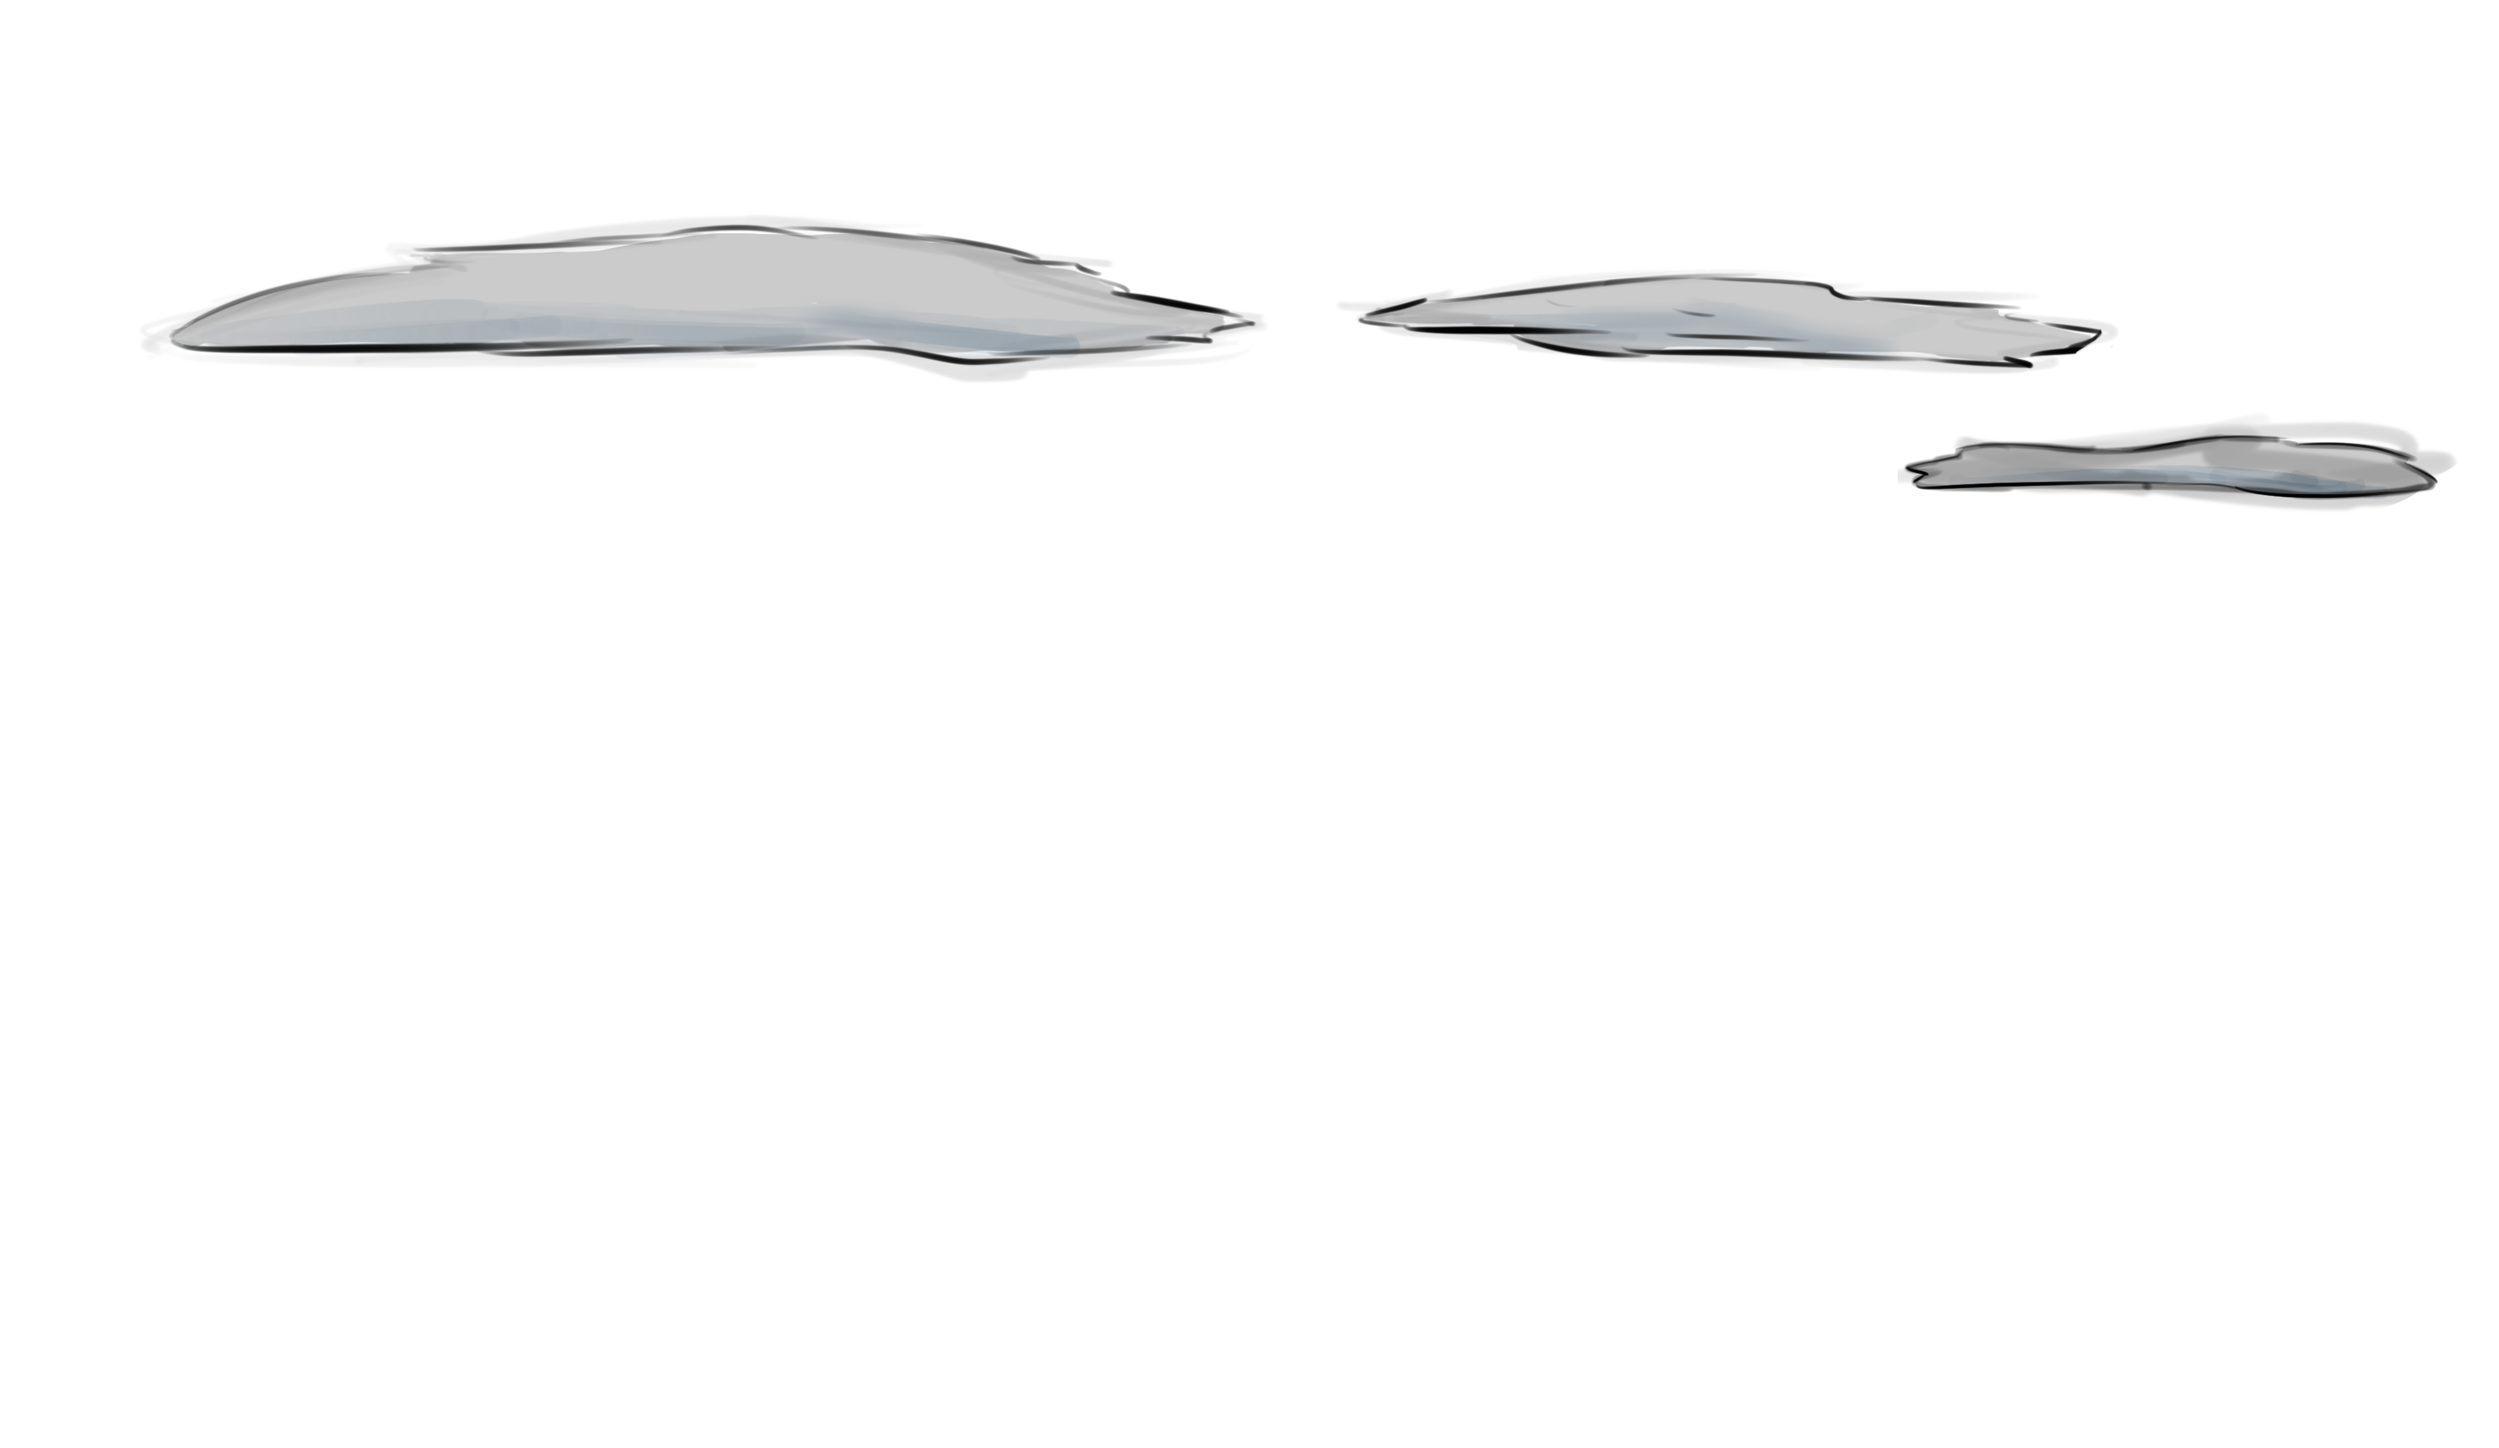
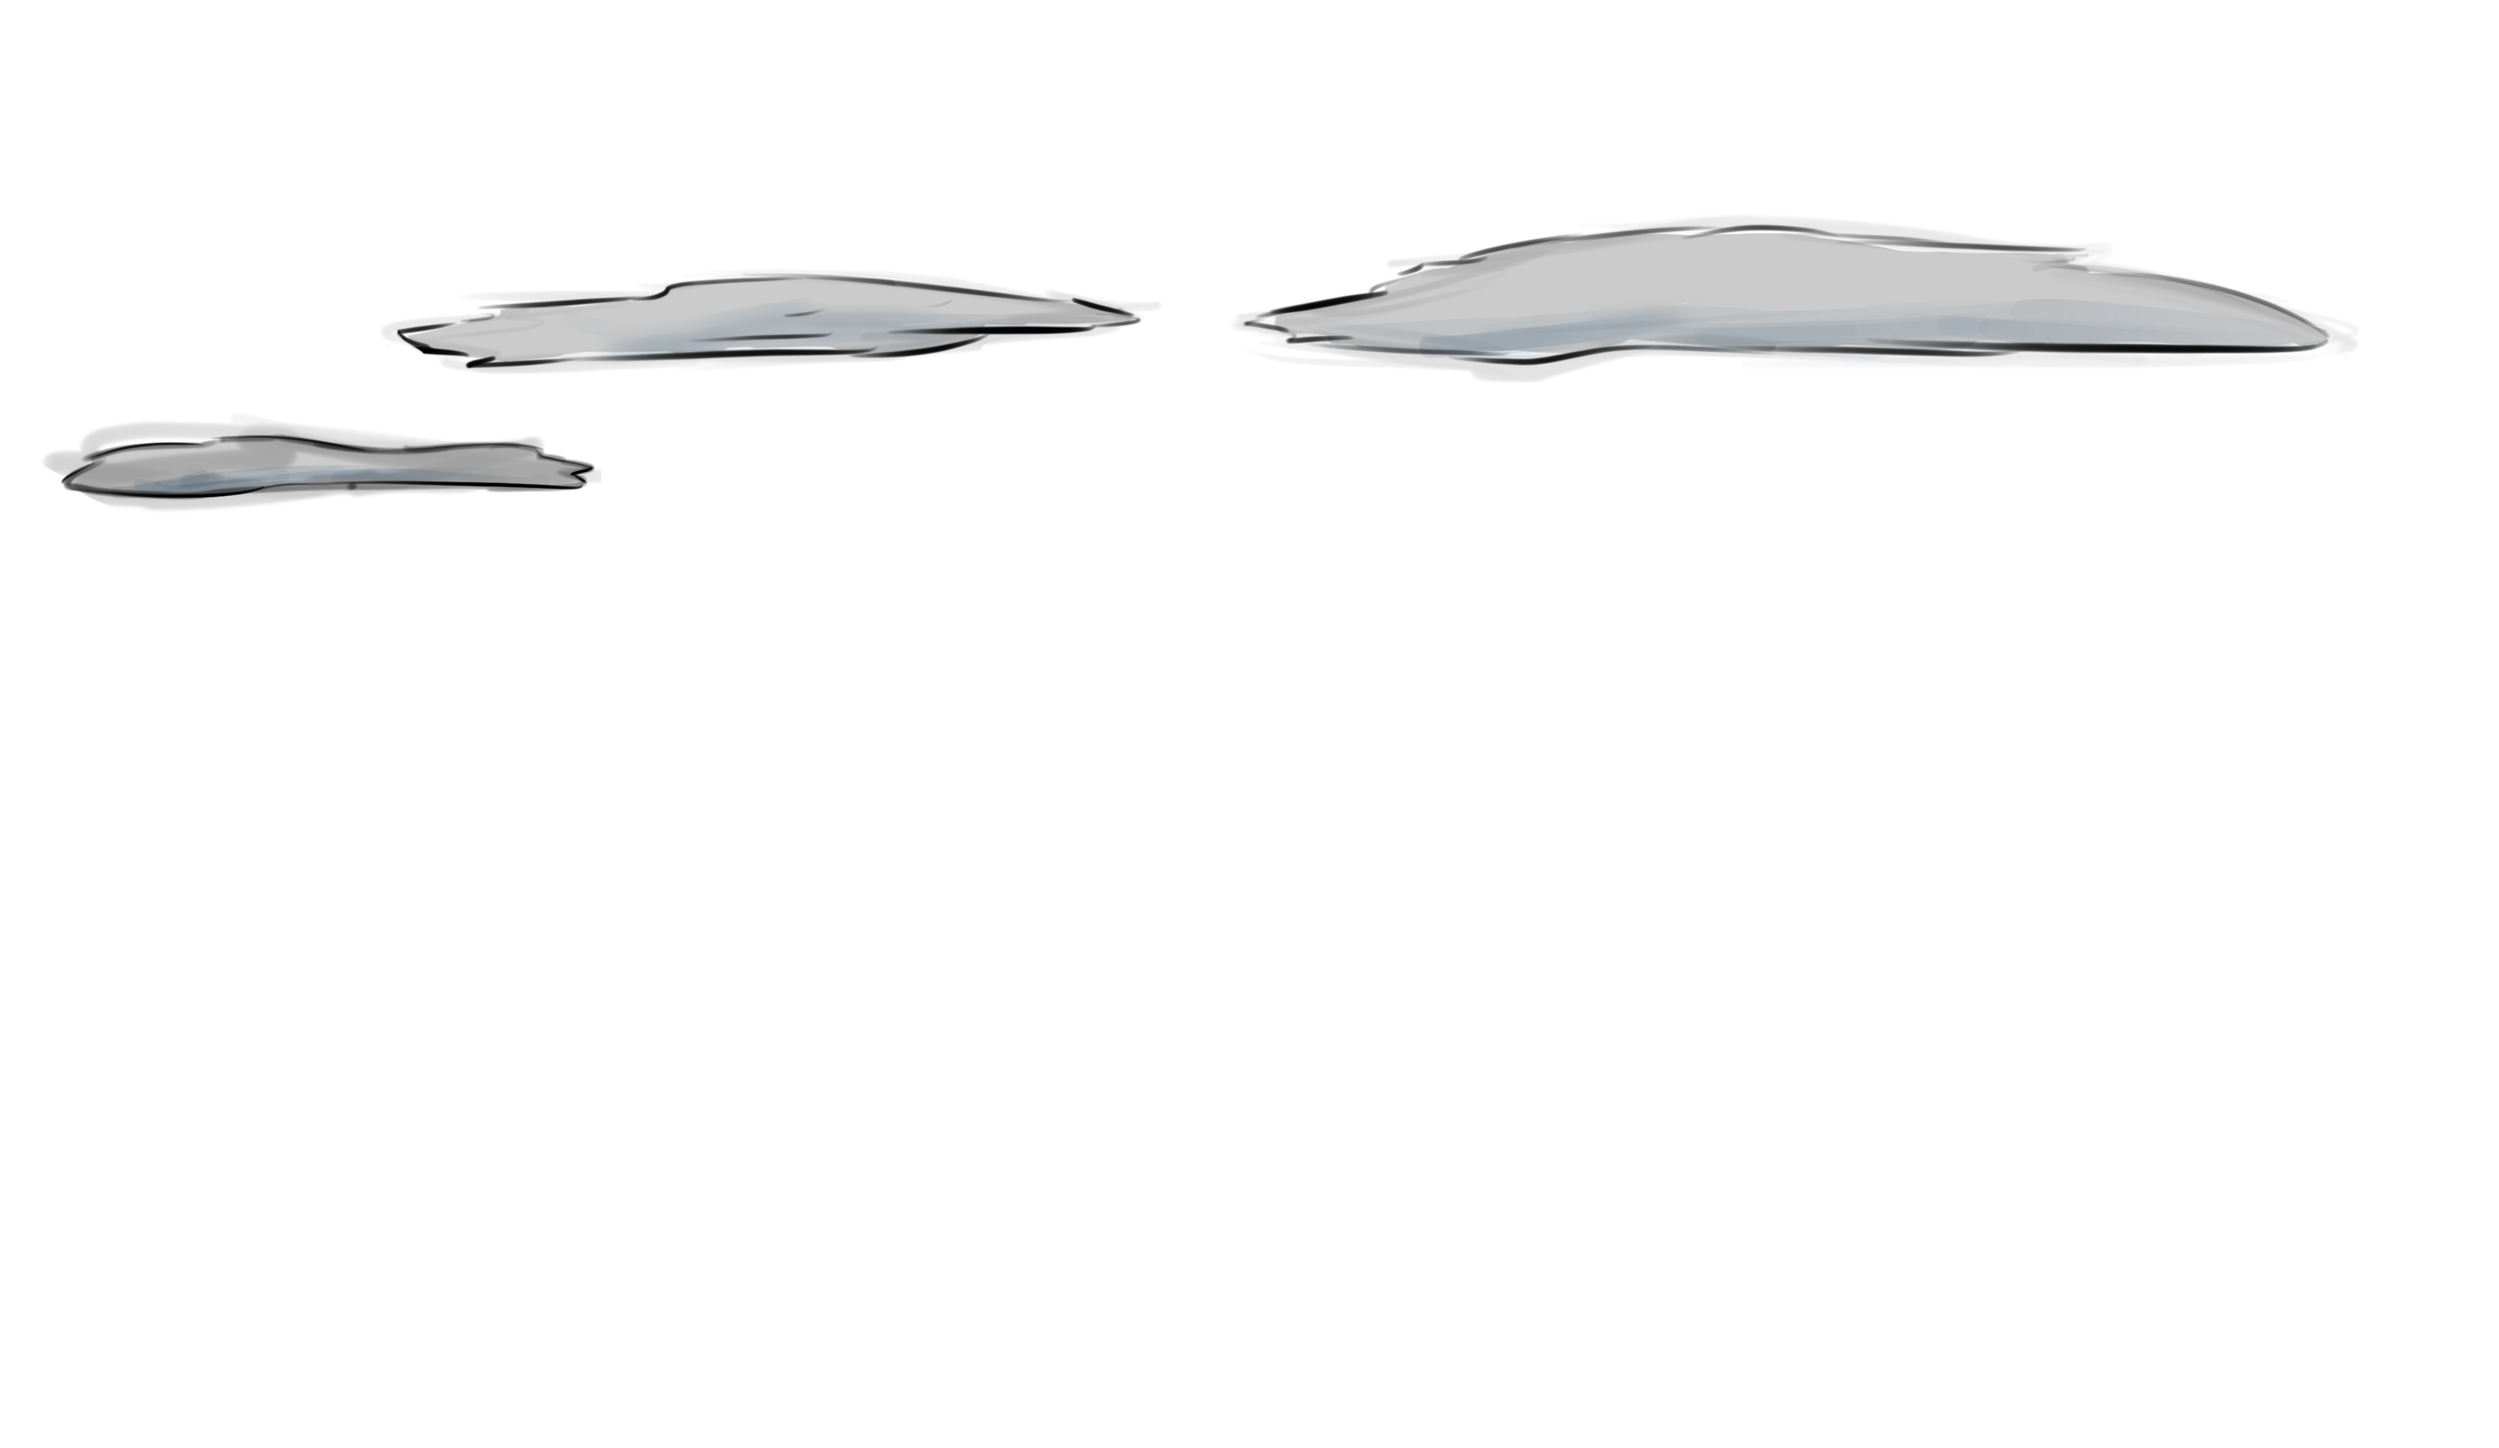
minor composition change

Changed region(s): [[0.0, 0.1562, 0.996, 0.375]]

diff --git a/parallaxComic/parallax.html b/parallaxComic/parallax.html
@@ -29,8 +29,13 @@
 
 				<img class="parallaxImg" data-stellar-ratio="1" src = "artwork/section1/1.PNG" style="width: 100%">
 				<img class="parallaxImg" data-stellar-ratio="2" src = "artwork/section1/2.PNG" >
-				<!-- <img class="parallaxImg" data-stellar-ratio="-1.4" src = "artwork/section1/3.PNG" style="z-index: -2" >
-				<img class="parallaxImg" data-stellar-ratio="-2" src = "artwork/section1/4.PNG" > -->
+
+				<img class="parallaxImg" data-stellar-ratio="-1.4" src = "artwork/section1/3.PNG" style="z-index: -2" >
+				<img class="parallaxImg" data-stellar-ratio="-1" src = "artwork/section1/4.PNG" style="z-index: 0" >
+
+
+
+				<!-- <img class="parallaxImg" data-stellar-ratio="-2" src = "artwork/section1/4.PNG" > -->
 			   	<!-- <img class="parallaxImg" data-stellar-ratio="1" src = "artwork/section1/5.PNG" > -->
 		</div>
 
@@ -115,12 +120,14 @@
 		<!-- Note: this is identical to the first section -->
 		<div class="parallaxElement" data-stellar-background-ratio="1" data-stellar-offset-parent="true" id="sectionLast"> 
 				<div id="basicMessage1" class="comicPanelFormat" data-stellar-ratio = "1"> This is Somes Island </div>
-				<!-- <div data-stellar-ratio = "2" style="position:absolute"> <h1> Watch this move with Parallax </h1> </div> -->
-				<!-- <div data-stellar-ratio = "-1" style="position:absolute"> <h1> Watch this move with Parallax </h1> </div> -->
+
 				<img class="parallaxImg" data-stellar-ratio="1" src = "artwork/section1/1.PNG" style="width: 100%">
-				<img class="parallaxImg" data-stellar-ratio="1" src = "artwork/section1/2.PNG" >
-			<!-- 	<img class="parallaxImg" data-stellar-ratio="-1.4" src = "artwork/section1/3.PNG" style="z-index: -2" >
-				<img class="parallaxImg" data-stellar-ratio="-2" src = "artwork/section1/4.PNG" > -->
+				<img class="parallaxImg" data-stellar-ratio="2" src = "artwork/section1/2.PNG" >
+
+				<img class="parallaxImg" data-stellar-ratio="-1.4" src = "artwork/section1/3.PNG" style="z-index: -2" >
+				<img class="parallaxImg" data-stellar-ratio="-1" src = "artwork/section1/4.PNG" style="z-index: 0" >
+
+
 		</div>
 
 			<div class="parallaxElement" data-stellar-background-ratio="1" data-stellar-offset-parent="true" id="section2"> 
